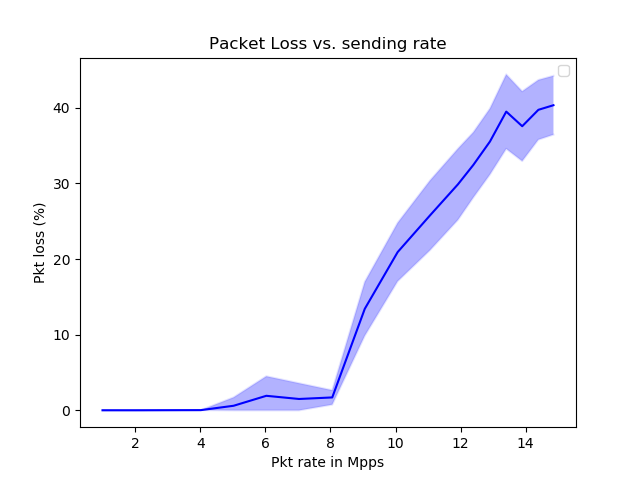
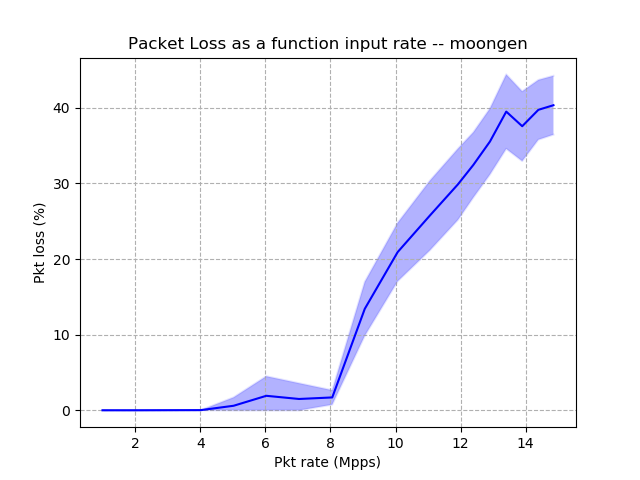
Added gridlines and legend box outside the plot if needed

Changed region(s): [[0.1875, 0.0625, 0.8125, 0.125], [0.4062, 0.9375, 0.5938, 1.0]]

diff --git a/Percentage/plot.py b/Percentage/plot.py
@@ -3,7 +3,8 @@ from numpy import mean, sqrt, var
 import common as common
 
 METHOD = "p4xdp"
-file_name = "data/%s/results_%s" % (METHOD, METHOD)
+Methods = ["bcc", "moongen", "p4ebpf", "p4xdp", "tcpdump", "xdpdump"]
+
 N = 50
 
 x = [0,10,20,30,40,50,60,70,80,90,100]
@@ -203,26 +204,30 @@ def compute_min_mean_max(file_name):
 
 
 def plot_percentage(lower_cap, cap, upper_cap, lower_filtered, filtered, upper_filtered, lower_total, total, upper_total):
-    plt.plot(x, lower_cap, x, upper_cap, color='blue', alpha=0.1)
-    plt.fill_between(x, lower_cap, upper_cap, where=upper_cap >= lower_cap, alpha=0.3, facecolor='blue', interpolate=True)
+    fig, ax = plt.subplots()
+    ax.plot(x, lower_cap, x, upper_cap, color='blue', alpha=0.1)
+    ax.fill_between(x, lower_cap, upper_cap, where=upper_cap >= lower_cap, alpha=0.3, facecolor='blue', interpolate=True)
     if METHOD not in ["tcpdump", "xdpdump"]:
-        plt.plot(x, lower_filtered, x, upper_filtered, color='orange', alpha=0.1)
-        plt.fill_between(x, lower_filtered, upper_filtered, where=upper_filtered >= lower_filtered, alpha=0.3, facecolor='orange', interpolate=True)
-        plt.plot(x, lower_total, x, upper_total, color='green', alpha=0.1)
-        plt.fill_between(x, lower_total, upper_total, where=upper_total >= lower_total, alpha=0.3, facecolor='green', interpolate=True)
+        ax.plot(x, lower_filtered, x, upper_filtered, color='orange', alpha=0.1)
+        ax.fill_between(x, lower_filtered, upper_filtered, where=upper_filtered >= lower_filtered, alpha=0.3, facecolor='orange', interpolate=True)
+        #ax.plot(x, lower_total, x, upper_total, color='green', alpha=0.1)
+        #ax.fill_between(x, lower_total, upper_total, where=upper_total >= lower_total, alpha=0.3, facecolor='green', interpolate=True)
 
     # plot lines 
-    plt.plot(x, cap, label = "Captured pkts", color="blue")
+    ax.plot(x, cap, label = "Captured pkts", color="blue")
     if METHOD not in ["tcpdump", "xdpdump"]:
-        plt.plot(x, filtered, label = "Dropped pkts", color="orange")
-        plt.plot(x, total, label = "Treated pkts", color="green")
-    plt.title('Packet filtering behaviour -- %s' % METHOD)
-    plt.ylabel('RX pkts (%)')
-    plt.xlabel('Pkts matching the filter (%)')
-    plt.legend() 
+        ax.plot(x, filtered, label = "Dropped pkts", color="orange")
+        #ax.plot(x, total, label = "Treated pkts", color="green")
+    ax.set_title('Packet filtering behaviour -- %s' % METHOD)
+    ax.set_ylabel('RX pkts (%)')
+    ax.set_xlabel('Pkts matching the filter (%)')
+    ax.grid(linestyle="--")
+    ax.legend() 
 
     # save fig
-    plt.savefig("images/%s_percentage.png" % METHOD)
+    plt.savefig("images/%s_percentage_final.png" % METHOD)
 
-a,b,c,d,e,f,g,h,i = compute_min_mean_max(file_name)
-plot_percentage(a,b,c,d,e,f,g,h,i)
+for METHOD in Methods:
+    file_name = "data/%s/results_%s" % (METHOD, METHOD)
+    a,b,c,d,e,f,g,h,i = compute_min_mean_max(file_name)
+    plot_percentage(a,b,c,d,e,f,g,h,i)

diff --git a/Loss/plot.py b/Loss/plot.py
@@ -123,41 +123,54 @@ def print_list(x):
     print("-------------------------------------------")
 
 
-def plot_loss(lower_loss, pkt_loss, upper_loss, color_):
+def plot_loss(fig, ax, lower_loss, pkt_loss, upper_loss, color_):
     # value returned by parser.py
     x = the_parser.mean_list("data/%s/%s_results_generator" % (METHOD, METHOD))
     # plot lower and upper bounds
-    plt.plot(x, lower_loss, color=color_, alpha=0.1)
-    plt.plot(x, upper_loss, color=color_, alpha=0.1)
-    plt.fill_between(x, lower_loss, upper_loss, where=upper_loss >= lower_loss, alpha=0.3, facecolor=color_, interpolate=True)
+    ax.plot(x, lower_loss, color=color_, alpha=0.1)
+    ax.plot(x, upper_loss, color=color_, alpha=0.1)
+    ax.fill_between(x, lower_loss, upper_loss, where=upper_loss >= lower_loss, alpha=0.3, facecolor=color_, interpolate=True)
     # plot mean pkt loss
-    plt.plot(x, pkt_loss, color=color_, label=METHOD)
+    ax.plot(x, pkt_loss, color=color_, label=METHOD)
 
 
-def single_plot_save():
-    plt.title('Packet Loss as a function input rate -- %s' % METHOD)
-    plt.ylabel('Pkt loss (%)')
-    plt.xlabel('Pkt rate (Mpps)')
-    plt.legend(loc="best")
+def single_plot_save(fig, ax):
+    ax.set_title('Packet Loss as a function input rate -- %s' % METHOD)
+    ax.set_ylabel('Pkt loss (%)')
+    ax.set_xlabel('Pkt rate (Mpps)')
+    ax.grid(linestyle="--")
     plt.savefig("images/loss_%s.png" % METHOD)
 
-def plot_save():
-    plt.title('Packet Loss as a function input rate')
-    plt.ylabel('Pkt loss (%)')
-    plt.xlabel('Pkt rate (Mpps)')
-    plt.legend(loc="center", prop={'size': 8}) 
+def plot_save(fig, ax):
+    ax.set_title('Packet Loss as a function input rate')
+    ax.set_ylabel('Pkt loss (%)')
+    ax.set_xlabel('Pkt rate (Mpps)')
+    ax.grid(linestyle="--")
+
+    # Shrink current axis by 20%
+    box = ax.get_position()
+    ax.set_position([box.x0, box.y0, box.width * 0.9, box.height])
+
+    # Put a legend to the right of the current axis
+    ax.legend(loc='lower left', bbox_to_anchor=(1, 0.5),prop={'size': 7})
     plt.savefig("images/loss.png")
 
-#file_name = "data/%s/results_%s" % (METHOD, METHOD)
-#x,y,z = compute_min_mean_max(file_name)
-#plot_loss(x,y,z, "blue")
+for METHOD in Methods:
+    fig, ax = plt.subplots()
+    file_name = "data/%s/results_%s" % (METHOD, METHOD)
+    x,y,z = compute_min_mean_max(file_name)
+    plot_loss(fig, ax, x,y,z, "blue")
 
-#single_plot_save()
+    single_plot_save(fig, ax)
 
+"""
+
+fig, ax = plt.subplots()
 
 for color, METHOD in zip(Colors, Methods):
     file_name = "data/%s/results_%s" % (METHOD, METHOD)
     x,y,z = compute_min_mean_max(file_name)
-    plot_loss(x,y,z, color)
+    plot_loss(fig, ax, x,y,z, color)
 
-plot_save()
+plot_save(fig, ax)
+"""

diff --git a/Percentage/plot_loss.py b/Percentage/plot_loss.py
@@ -3,8 +3,8 @@ from numpy import mean, sqrt, var
 import common as common
 
 METHOD = "p4xdp"
+Methods = ["bcc", "moongen", "p4ebpf", "p4xdp"]
 
-file_name = "data/%s/results_%s" % (METHOD, METHOD)
 N = 50
 
 x = [0,10,20,30,40,50,60,70,80,90,100]
@@ -141,18 +141,22 @@ def compute_min_mean_max_loss(file_name):
     return lower_total, total, upper_total
 
 def plot_percentage_loss(lower_total, total, upper_total):
-    plt.plot(x, lower_total, x, upper_total, color='red', alpha=0.1)
-    plt.fill_between(x, lower_total, upper_total, where=upper_total >= lower_total, alpha=0.3, facecolor='red', interpolate=True)
+    fig, ax = plt.subplots()
+    ax.plot(x, lower_total, x, upper_total, color='red', alpha=0.1)
+    ax.fill_between(x, lower_total, upper_total, where=upper_total >= lower_total, alpha=0.3, facecolor='red', interpolate=True)
 
     # plot lines 
-    plt.plot(x, total, label = "Lost pkts", color="red")
-    plt.title('Packet loss vs matching filter -- %s' % METHOD)
-    plt.ylabel('Lost pkts (%)')
-    plt.xlabel('Pkts matching the filter (%)')
-    plt.legend() 
+    ax.plot(x, total, label = "Lost pkts", color="red")
+    ax.set_title('Packet loss vs matching filter -- %s' % METHOD)
+    ax.set_ylabel('Lost pkts (%)')
+    ax.set_xlabel('Pkts matching the filter (%)')
+    ax.grid(linestyle="--")
+    ax.legend() 
 
     # save fig
     plt.savefig("images/%s_percentage_loss.png" % METHOD)
 
-a,b,c = compute_min_mean_max_loss(file_name)
-plot_percentage_loss(a,b,c)
+for METHOD in Methods:
+    file_name = "data/%s/results_%s" % (METHOD, METHOD)
+    a,b,c = compute_min_mean_max_loss(file_name)
+    plot_percentage_loss(a,b,c)

diff --git a/Methods_comparison/plot.py b/Methods_comparison/plot.py
@@ -39,7 +39,16 @@ ax.set_xticks(x)
 ax.set_xticklabels(labels)
 ax.legend(loc="upper center",prop={'size': 7})
 
-fig.tight_layout()
+ax.grid(axis = 'y', linestyle = '--')
+
+# Shrink current axis by 20%
+box = ax.get_position()
+ax.set_position([box.x0, box.y0, box.width * 0.9, box.height])
+
+# Put a legend to the right of the current axis
+ax.legend(loc='lower left', bbox_to_anchor=(1, 0.5),prop={'size': 7})
+
+#fig.tight_layout()
 
 plt.savefig("pkt_loss.png")
 
@@ -57,9 +66,18 @@ ax.set_ylabel('RX packets')
 ax.set_title('RX packets vs. method')
 ax.set_xticks(x)
 ax.set_xticklabels(labels)
-ax.legend( prop={'size': 7})
+#ax.legend( prop={'size': 7})
 
-fig.tight_layout()
+ax.grid(axis = 'y', linestyle="--")
+
+# Shrink current axis by 20%
+box = ax.get_position()
+ax.set_position([box.x0, box.y0, box.width * 0.9, box.height])
+
+# Put a legend to the right of the current axis
+ax.legend(loc='lower left', bbox_to_anchor=(1, 0.5),prop={'size': 7})
+
+#fig.tight_layout()
 
 plt.savefig("rx_methods.png")
 

diff --git a/Filter_loss/plot.py b/Filter_loss/plot.py
@@ -20,7 +20,7 @@ lower_total = []
 upper_total = []
 total_box = []
 
-SCATTER = True
+SCATTER = False
 N = 50
 # value returned by parser.py
 x = [0, 1, 2, 3, 4, 5, 6]
@@ -99,6 +99,7 @@ else:
 plt.title('RX packets vs filter size with 50% packets matching the filter')
 plt.ylabel('RX pkts (%)')
 plt.xlabel('Filter size')
-plt.legend() 
+plt.grid(linestyle="--")
+#plt.legend() 
 
 plt.savefig("images/%s_percentage_vs_filter_50_match.png" % ("scatter" if SCATTER else "plot"))
